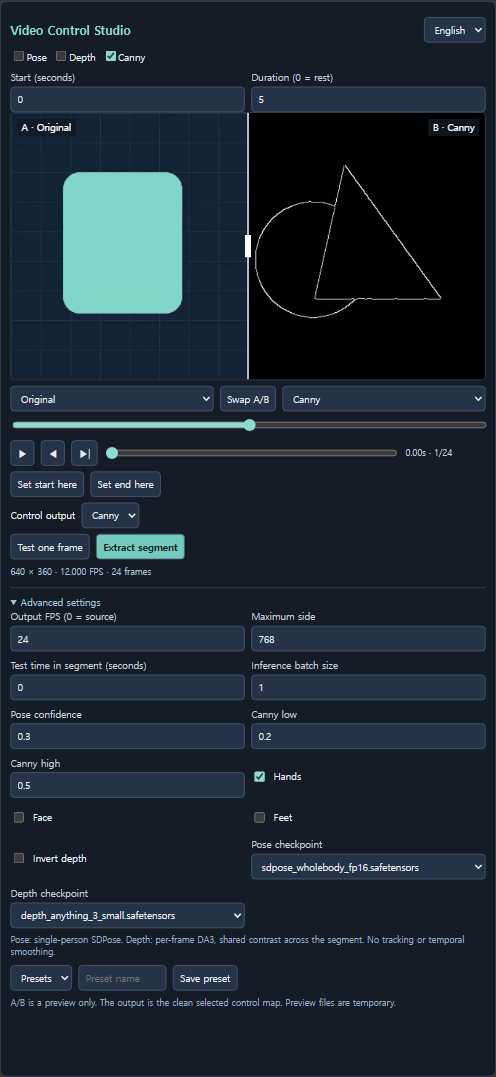
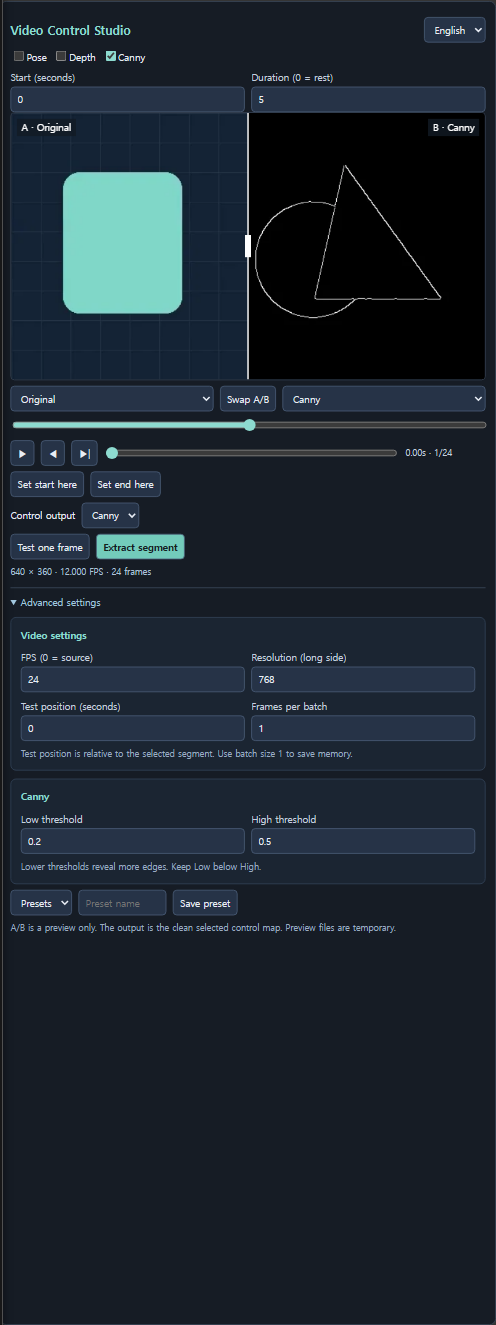
Simplify advanced settings and add synchronized control demo

diff --git a/web/studio.js b/web/studio.js
@@ -8,6 +8,8 @@ const words={
  ko:{advanced:'세부 설정',extract:'선택 구간 추출',test:'한 프레임 시험',start:'시작 시간 (초)',duration:'구간 길이 (0 = 나머지)',fps:'출력 FPS (0 = 원본)',max_side:'최대 변 길이',test_time:'구간 내 시험 위치 (초)',hands:'손',face:'얼굴',feet:'발',threshold:'포즈 신뢰도',low:'Canny 낮은 임계값',high:'Canny 높은 임계값',depth_invert:'Depth 반전',batch_size:'추론 배치 크기',output:'Control output',original:'원본',pose:'포즈',depth:'깊이',canny:'윤곽선',empty:'Load Video를 연결하고 추출 종류를 선택하세요.',dirty:'설정이 변경됐습니다. 다시 추출하면 출력에 반영됩니다.',queued:'이 노드와 필요한 입력만 실행 대기 중입니다.',advancedNote:'Pose: 단일 인물 SDPose. Depth: 프레임별 DA3, 구간 전체 명암 범위 공유. 인물 추적·시간축 안정화는 포함하지 않습니다.',previewNote:'A/B 화면은 확인용입니다. 출력은 선택한 추출 결과만 전달합니다. 미리보기 파일은 임시 저장됩니다.',single:'한 프레임 시험 결과 — 전체 제어 영상은 선택 구간 추출을 실행하세요.',play:'재생 / 일시정지',back:'이전 프레임',next:'다음 프레임',split:'비교선 위치',seek:'영상 시간',swap:'A/B 바꾸기',in:'현재 위치를 시작으로',out:'현재 위치를 끝으로',save:'프리셋 저장',presets:'프리셋',presetName:'프리셋 이름',poseModel:'포즈 체크포인트',depthModel:'Depth 체크포인트',failure:'미리보기가 없습니다. 다시 추출하세요.',runError:'노드를 실행할 수 없습니다. 서브그래프 내부에서는 ComfyUI 실행을 사용하세요.',stale:'이전 추출 결과를 표시 중입니다.'}
 };
 const controllers=new WeakMap();
+Object.assign(words.en,{videoSettings:'Video settings',fps:'FPS (0 = source)',max_side:'Resolution (long side)',test_time:'Test position (seconds)',batch_size:'Frames per batch',poseModel:'Model',depthModel:'Model',low:'Low threshold',high:'High threshold',poseParts:'Include',videoHint:'Test position is relative to the selected segment. Use batch size 1 to save memory.',poseHint:'Higher confidence hides uncertain joints.',depthHint:'Near objects are white by default.',cannyHint:'Lower thresholds reveal more edges. Keep Low below High.'});
+Object.assign(words.ko,{videoSettings:'영상 설정',fps:'FPS (0 = 원본)',max_side:'해상도 (긴 변)',test_time:'시험 위치 (초)',batch_size:'동시 처리 프레임',poseModel:'모델',depthModel:'모델',low:'낮은 임계값',high:'높은 임계값',poseParts:'포함할 부위',videoHint:'시험 위치는 선택 구간 기준입니다. 메모리가 부족하면 동시 처리를 1로 설정하세요.',poseHint:'신뢰도를 높이면 불확실한 관절을 숨깁니다.',depthHint:'기본값은 가까운 물체가 흰색입니다.',cannyHint:'값을 낮추면 더 많은 윤곽선을 잡습니다. 낮은 값은 높은 값보다 작아야 합니다.'});
 function element(tag,cls,text){const e=document.createElement(tag);if(cls)e.className=cls;if(text)e.textContent=text;return e;}
 function install(node){
  if(controllers.has(node))return;
@@ -47,11 +49,19 @@ function install(node){
  markOut.onclick=()=>{if(!manifest||manifest.test)return;cfg.duration=Math.max(1/manifest.fps,manifest.start+(frame+1)/manifest.fps-cfg.start);reloadFields();write();};
  const outputRow=element('label','row');outputRow.append(label(element('span'),'output'));const output=element('select');output.dataset.setting='output';outputRow.append(output);root.append(outputRow);output.onchange=()=>{cfg.output=output.value;write();};
  const actions=element('div','row');const test=label(element('button'),'test'),extract=label(element('button','primary'),'extract');actions.append(test,extract);root.append(actions);
- const advanced=element('details');advanced.open=true;advanced.append(label(element('summary'),'advanced'));const advFields=element('div','fields');advanced.append(advFields);
- field('fps',advFields,0,120,1);field('max_side',advFields,64,4096,32);field('test_time',advFields,0,86400,.1);field('batch_size',advFields,1,16,1);field('threshold',advFields,0,1,.01);field('low',advFields,.01,.99,.01);field('high',advFields,.01,.99,.01);
- for(const key of ['hands','face','feet','depth_invert']){const l=element('label','row');const input=element('input');input.type='checkbox';inputs[key]=input;input.onchange=()=>{cfg[key]=input.checked;write();};l.append(input,label(element('span'),key));advFields.append(l);}
- for(const[w,key]of [[poseWidget,'poseModel'],[depthWidget,'depthModel']]){const l=element('label','field');l.append(label(element('span'),key));const select=element('select');const values=typeof w.options.values==='function'?w.options.values():w.options.values;for(const value of values||[])select.add(new Option(value,value));select.value=w.value;select.onchange=()=>{w.value=select.value;write();};l.append(select);advFields.append(l);w.vcsSelect=select;}
- advanced.append(label(element('p','note'),'advancedNote'));root.append(advanced);
+ const advanced=element('details');advanced.open=true;advanced.append(label(element('summary'),'advanced'));
+ const modeGroups={};
+ function settingsGroup(key,mode=null){const group=element('section','settings-group');group.dataset.group=mode||'video';const title=element('h4');if(mode){title.textContent=words.en[mode];modeGroups[mode]=group;}else label(title,key);group.append(title);advanced.append(group);return group;}
+ const videoGroup=settingsGroup('videoSettings');const videoFields=element('div','fields');videoGroup.append(videoFields);
+ field('fps',videoFields,0,120,1);field('max_side',videoFields,64,4096,32);field('test_time',videoFields,0,86400,.1);field('batch_size',videoFields,1,16,1);videoGroup.append(label(element('p','note'),'videoHint'));
+ const poseGroup=settingsGroup('pose','pose'),depthGroup=settingsGroup('depth','depth'),cannyGroup=settingsGroup('canny','canny');
+ for(const[w,key,parent]of [[poseWidget,'poseModel',poseGroup],[depthWidget,'depthModel',depthGroup]]){const l=element('label','field model-field');l.append(label(element('span'),key));const select=element('select');const values=typeof w.options.values==='function'?w.options.values():w.options.values;for(const value of values||[])select.add(new Option(value,value));select.value=w.value;select.onchange=()=>{w.value=select.value;write();};l.append(select);parent.append(l);w.vcsSelect=select;}
+ function toggle(key,parent){const l=element('label','toggle');const input=element('input');input.type='checkbox';input.dataset.setting=key;inputs[key]=input;input.onchange=()=>{cfg[key]=input.checked;write();};l.append(input,label(element('span'),key));parent.append(l);}
+ const parts=element('div','row pose-parts');parts.append(label(element('span','parts-label'),'poseParts'));for(const key of ['hands','face','feet'])toggle(key,parts);poseGroup.append(parts);
+ field('threshold',poseGroup,0,1,.01);poseGroup.append(label(element('p','note'),'poseHint'));
+ const depthOptions=element('div','row');toggle('depth_invert',depthOptions);depthGroup.append(depthOptions,label(element('p','note'),'depthHint'));
+ const cannyFields=element('div','fields');cannyGroup.append(cannyFields);field('low',cannyFields,.01,.99,.01);field('high',cannyFields,.01,.99,.01);cannyGroup.append(label(element('p','note'),'cannyHint'));
+ root.append(advanced);
  const presets=element('div','row');const preset=element('select');label(preset,'presets','aria-label');const presetName=element('input','preset-name');presetName.type='text';label(presetName,'presetName','placeholder');const save=label(element('button'),'save');presets.append(preset,presetName,save);root.append(presets);
  const status=element('div','status');status.setAttribute('role','status');root.insertBefore(status,advanced);root.append(label(element('p','note'),'previewNote'));
  const cache=new Map();
@@ -66,7 +76,7 @@ function install(node){
  async function tick(run){if(!playing||disposed||run!==playbackRun)return;const elapsed=Math.max(0,performance.now()-lastTime);const next=(clockFrame+Math.floor(elapsed*manifest.fps/1000))%manifest.count;if(next!==frame){frame=next;await draw();}if(playing&&!disposed&&run===playbackRun)raf=requestAnimationFrame(()=>tick(run));}
  a.onchange=b.onchange=()=>draw();swap.onclick=()=>{const temp=a.value;a.value=b.value;b.value=temp;draw();};
  function write(){storage.value=JSON.stringify(cfg);status.classList.remove('error');status.textContent=t('dirty');node.graph?.change();}
- function refreshOutput(){output.replaceChildren(...cfg.modes.map(m=>new Option(words.en[m],m)));output.value=cfg.output;}
+ function refreshOutput(){output.replaceChildren(...cfg.modes.map(m=>new Option(words.en[m],m)));output.value=cfg.output;for(const[mode,group]of Object.entries(modeGroups))group.hidden=!cfg.modes.includes(mode);}
  function reloadFields(){for(const[key,input]of Object.entries(inputs)){if(input.type==='checkbox')input.checked=cfg[key];else input.value=cfg[key];}for(const[key,input]of Object.entries(modeInputs))input.checked=cfg.modes.includes(key);refreshOutput();}
  function refreshPresets(){preset.replaceChildren(new Option(t('presets'),''));for(const name of Object.keys(node.properties.vcs_presets||{}))preset.add(new Option(name,name));}
  save.onclick=()=>{const name=presetName.value.trim();if(!name)return;node.properties.vcs_presets={...node.properties.vcs_presets,[name]:structuredClone({...cfg,test:false})};refreshPresets();preset.value=name;node.graph?.change();};
@@ -77,14 +87,14 @@ function install(node){
  language.onchange=()=>{lang=language.value;node.properties.vcs_language=lang;for(const[el,key,attr]of labeled){if(attr)el.setAttribute(attr,t(key));else el.textContent=t(key);}refreshOutput();refreshPresets();if(manifest){const av=a.value,bv=b.value;a.replaceChildren(...Object.keys(manifest.streams).map(k=>new Option(t(k),k)));b.replaceChildren(...Object.keys(manifest.streams).map(k=>new Option(t(k),k)));a.value=av;b.value=bv;}status.textContent=manifest?.test?t('single'):manifest?`${manifest.width} × ${manifest.height} · ${manifest.fps.toFixed(3)} FPS · ${manifest.count} frames`:t('empty');draw();node.graph?.change();};
  root.addEventListener('pointerdown',e=>e.stopPropagation());root.addEventListener('keydown',e=>e.stopPropagation());root.addEventListener('wheel',e=>e.stopPropagation(),{passive:true});
  const content=element('div','vcs-content');content.append(...root.childNodes);root.append(content);
- const contentHeight=()=>content.offsetHeight?Math.ceil(content.offsetHeight+28):1300;
+ const contentHeight=()=>content.offsetHeight?Math.ceil(content.offsetHeight+28):900;
  const widget=node.addDOMWidget('vcs_editor','VCS_'+crypto.randomUUID(),root,{serialize:false,hideOnZoom:false,getMinHeight:contentHeight});widget.serialize=false;
  function minimumSize(){return [640,Math.max(node.computeSize()[1],contentHeight()+170)];}
  let sizingFrame=0;
  function fitContents(){cancelAnimationFrame(sizingFrame);sizingFrame=requestAnimationFrame(()=>{if(disposed||!root.isConnected)return;const [w,h]=minimumSize();if(node.size[0]<w||node.size[1]<h){node.setSize([Math.max(w,node.size[0]),Math.max(h,node.size[1])]);node.graph?.setDirtyCanvas(true,true);}});}
  const oldResize=node.onResize;node.onResize=function(size){oldResize?.call(this,size);const [w,h]=minimumSize();size[0]=Math.max(w,size[0]);size[1]=Math.max(h,size[1]);fitContents();};
  const observer=new ResizeObserver(fitContents);observer.observe(content);
- node.setSize([Math.max(640,node.size[0]),Math.max(1470,node.size[1])]);
+ node.setSize([Math.max(640,node.size[0]),Math.max(1070,node.size[1])]);
  play.disabled=true;seek.disabled=true;
  const oldExecuted=node.onExecuted;node.onExecuted=function(data){oldExecuted?.call(this,data);const result=data.vcs?.[0];if(!result)return;playing=false;cancelAnimationFrame(raf);play.textContent='▶';manifest=result;cache.clear();frame=0;seek.max=manifest.count-1;play.disabled=seek.disabled=manifest.count<2;for(const sel of [a,b])sel.replaceChildren(...Object.keys(manifest.streams).map(k=>new Option(t(k),k)));a.value='original';b.value=manifest.output;markIn.disabled=markOut.disabled=manifest.test;status.classList.remove('error');status.textContent=manifest.test?t('single'):`${manifest.width} × ${manifest.height} · ${manifest.fps.toFixed(3)} FPS · ${manifest.count} frames`;draw();};
  const oldConfigure=node.onConfigure;node.onConfigure=function(...args){const r=oldConfigure?.apply(this,args);lang=(this.properties.vcs_language||DEFAULT_LANGUAGE)==='ko'?'ko':'en';language.value=lang;reload();language.onchange();return r;};

diff --git a/web/studio.css b/web/studio.css
@@ -1,2 +1,3 @@
 .vcs{box-sizing:border-box;width:100%;height:100%;overflow:visible;padding:12px;background:#161c25;color:#e8edf5;font:12px/1.5 system-ui,sans-serif;border:1px solid #3c4a5d;border-radius:8px}.vcs *{box-sizing:border-box}.vcs .row{display:flex;align-items:center;gap:8px;flex-wrap:wrap;margin:7px 0}.vcs .header{justify-content:space-between}.vcs .header strong{font-size:15px;color:#8ddbd0}.vcs button,.vcs select,.vcs input[type=number],.vcs input[type=text]{font:inherit;color:#e8edf5;background:#263347;border:1px solid #4b5e78;border-radius:5px;padding:6px 8px;min-width:0}.vcs button{cursor:pointer}.vcs button:hover{background:#354862}.vcs button.primary{background:#73cbbb;color:#12211e;font-weight:600}.vcs button:disabled{opacity:.45;cursor:wait}.vcs input[type=range]{accent-color:#8ddbd0;min-width:60px;flex:1}.vcs input[type=checkbox]{accent-color:#8ddbd0}.vcs button:focus-visible,.vcs input:focus-visible,.vcs select:focus-visible,.vcs summary:focus-visible{outline:2px solid #8ddbd0;outline-offset:2px}.vcs .screen{position:relative;width:100%;background:#090d13;border:1px solid #3c4a5d;border-radius:5px;overflow:hidden;touch-action:none}.vcs canvas{width:100%;display:block;aspect-ratio:16/9;cursor:ew-resize}.vcs .badge{position:absolute;top:7px;background:#111a24cc;color:white;padding:2px 6px;pointer-events:none}.vcs .badge.a{left:7px}.vcs .badge.b{right:7px}.vcs .stretch{flex:1}.vcs .time{font-variant-numeric:tabular-nums;min-width:100px;font-size:11px;color:#c1cfdf}.vcs .fields{display:grid;grid-template-columns:repeat(2,minmax(0,1fr));gap:8px}.vcs .field{display:flex;flex-direction:column;gap:3px;color:#c5d0df}.vcs .field select{width:100%}.vcs details{border-top:1px solid #3c4a5d;margin-top:10px;padding-top:8px}.vcs summary{cursor:pointer;color:#a2c7df}.vcs .status{font-size:11px;color:#adc2d9;white-space:pre-wrap;overflow-wrap:anywhere;margin-top:8px}.vcs .note{font-size:11px;color:#9cacc0;margin:6px 0}.vcs .error{color:#ffbdad}.vcs .preset-name{width:110px}
 .vcs-content{display:flow-root;width:100%}
+.vcs .settings-group{margin-top:10px;padding:12px;background:#1b2532;border:1px solid #334459;border-radius:7px}.vcs .settings-group[hidden]{display:none}.vcs .settings-group h4{margin:0 0 10px;font-size:12px;font-weight:600;color:#8ddbd0}.vcs .settings-group .note{margin:8px 0 0}.vcs .model-field{margin-bottom:10px}.vcs .toggle{display:inline-flex;align-items:center;gap:5px}.vcs .pose-parts{gap:16px;margin:10px 0}.vcs .parts-label{color:#c5d0df}.vcs .settings-group>.field input{max-width:140px}

diff --git a/README.md b/README.md
@@ -4,6 +4,12 @@
 
 Prepare control videos inside ComfyUI: select Pose, Depth or Canny, extract a short segment, then inspect the same frame with a draggable A/B divider. English is the default; choose **한국어** in the node to switch languages.
 
+![Synchronized three-second Pose, Depth and Canny comparison](docs/control-comparison.gif)
+
+**One clip, three control maps.** Left: Pose (SDPose), center: Depth (DA3), right: Canny. All three use the same three-second segment. [Watch or download the 24 FPS comparison video](docs/control-comparison.mp4). The inline preview loops at 12 FPS; extraction and MP4 playback use 24 FPS.
+
+**Works with MiniMax H3 Fun ControlNet.** Connect `control_frames` (IMAGE) to **Apply MiniMax H3 Fun ControlNet → control_video** (IMAGE), then choose Pose, Depth or Canny in **Control output**. See the [ready-to-load workflow](examples/h3-pose-controlnet-en.json) and [official node input reference](https://github.com/Comfy-Org/embedded-docs/blob/main/comfyui_embedded_docs/docs/MiniMaxH3FunControlNetApply/en.md). Other Fun ControlNet models require a compatible control type and matching generation settings.
+
 ![Original and Canny comparison](docs/studio-en.png)
 
 Use it to inspect motion references before sampling, compare preprocessing settings or export a control video for another workflow. Processing uses ComfyUI's native preprocessors and runs locally.
@@ -62,7 +68,7 @@ For a complete generation example, use the [H3 Pose ControlNet workflow](example
 | FPS | `0` preserves source FPS. Other values resample by dropping/repeating frames, without motion interpolation. |
 | Maximum side | Resize with aspect ratio preserved and even dimensions. |
 | Set start/end here | Select a smaller segment from the current preview; extract again to apply. |
-| Advanced | Pose hands/face/feet and confidence; Canny thresholds; depth inversion; model selection and inference batch size. |
+| Advanced | Video settings stay together. Only enabled modes show their own settings: Pose model, body parts and confidence; Depth model and inversion; Canny thresholds. Hidden settings retain their values. |
 | Presets | Save extraction settings by name inside the workflow. Model choices are stored as node inputs, separately from presets. |
 | Layout / language | Minimum size keeps all controls visible without internal scrolling. Advanced settings start expanded. Control output and its mode names remain English in both languages. |
 | `control_frames` | Clean selected control maps as an IMAGE batch. |
@@ -87,3 +93,5 @@ For H3, use 24 FPS. Its generated frame count follows `17n + 5` (for example, 12
 See [validation notes](docs/VALIDATION.md). Unit checks: `python -m unittest discover -s tests -v`.
 
 MIT for this package. Native ComfyUI implementations and model weights retain their respective licenses. Built on [ComfyUI](https://github.com/Comfy-Org/ComfyUI), [SDPose](https://huggingface.co/Comfy-Org/SDPose) and [Depth Anything 3](https://github.com/ByteDance-Seed/Depth-Anything-3).
+
+The comparison GIF/MP4 demonstrates extracted maps from a user-provided clip; source footage and audio are not bundled. The package's MIT license does not grant rights to the underlying footage.

diff --git a/docs/VALIDATION.md b/docs/VALIDATION.md
@@ -13,6 +13,8 @@ Tested on Windows with ComfyUI 0.37.1, frontend 1.52.7, Python 3.13.12, PyTorch 
 | Full graph | Both local buttons ran in a connected 17-node H3 generation workflow. Only LoadVideo and VideoControlStudio were submitted. A test did not persist one-frame mode into the next full run. |
 | Playback regression | Tested with delayed frame requests and animation timestamps preceding the start event. Playback continued without invalid frame requests. |
 | Layout | Resizing and language changes preserved all controls without internal scrolling. Control output stayed English in Korean mode. |
+| Grouped settings | Enabled modes revealed their own groups; hidden options retained values. All groups fit at the enforced minimum size in English and Korean. Playback and clean node screenshots were checked again. |
+| README comparison | All three extractors processed the same three-second segment into 72 frames at 24 FPS. The silent comparison MP4 decodes to 72 frames; the inline GIF has 36 frames totaling exactly three seconds. |
 | Persistence | Language, settings and presets survived workflow reload. |
 | H3 integration | Exported Pose frames drove a 124-frame generation. A separate run connected control_frames directly to H3 Fun ControlNet with image-reference conditioning and generated 73 frames at 704 × 384. |
 
@@ -35,4 +37,4 @@ The 124-frame H3 check used 512 × 288, an 8-step Turbo LoRA and Fun ControlNet 
 - Canny includes background edges as well as the subject.
 - Tests cover short clips. Long-clip memory use and broader hardware/extension compatibility remain unverified.
 
-Initial motion tests used the public [ComfyUI dancer sample](https://github.com/Comfy-Org/workflow_templates/blob/main/input/dancer_field_pose.mp4), which is not bundled. Documentation images use an original geometric test animation. Model weights and test media are not included.
+Initial motion tests used the public [ComfyUI dancer sample](https://github.com/Comfy-Org/workflow_templates/blob/main/input/dancer_field_pose.mp4), which is not bundled. Node screenshots use an original geometric test animation. The README comparison GIF/MP4 contains extracted maps from a user-provided clip. Source footage, audio, other test media and model weights are not included.

diff --git a/CHANGELOG.md b/CHANGELOG.md
@@ -1,5 +1,12 @@
 # Changelog
 
+## 0.1.1
+
+- Group advanced settings by Video, Pose, Depth and Canny; show only enabled modes.
+- Keep model selection beside its related options and preserve hidden values.
+- Refresh English/Korean node screenshots and add a synchronized three-second comparison GIF and MP4.
+- Highlight MiniMax H3 Fun ControlNet wiring in both READMEs.
+
 ## 0.1.0
 
 - Pose, Depth and Canny extraction from native ComfyUI VIDEO input.
